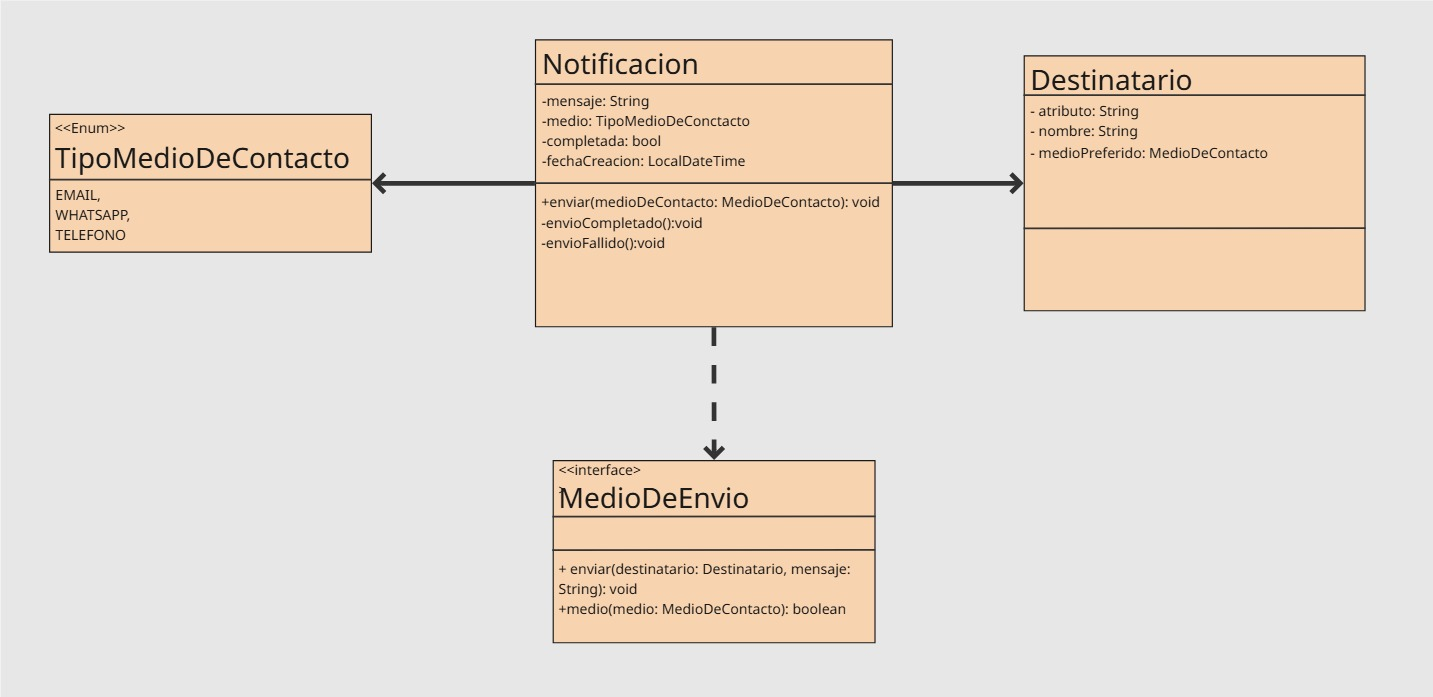
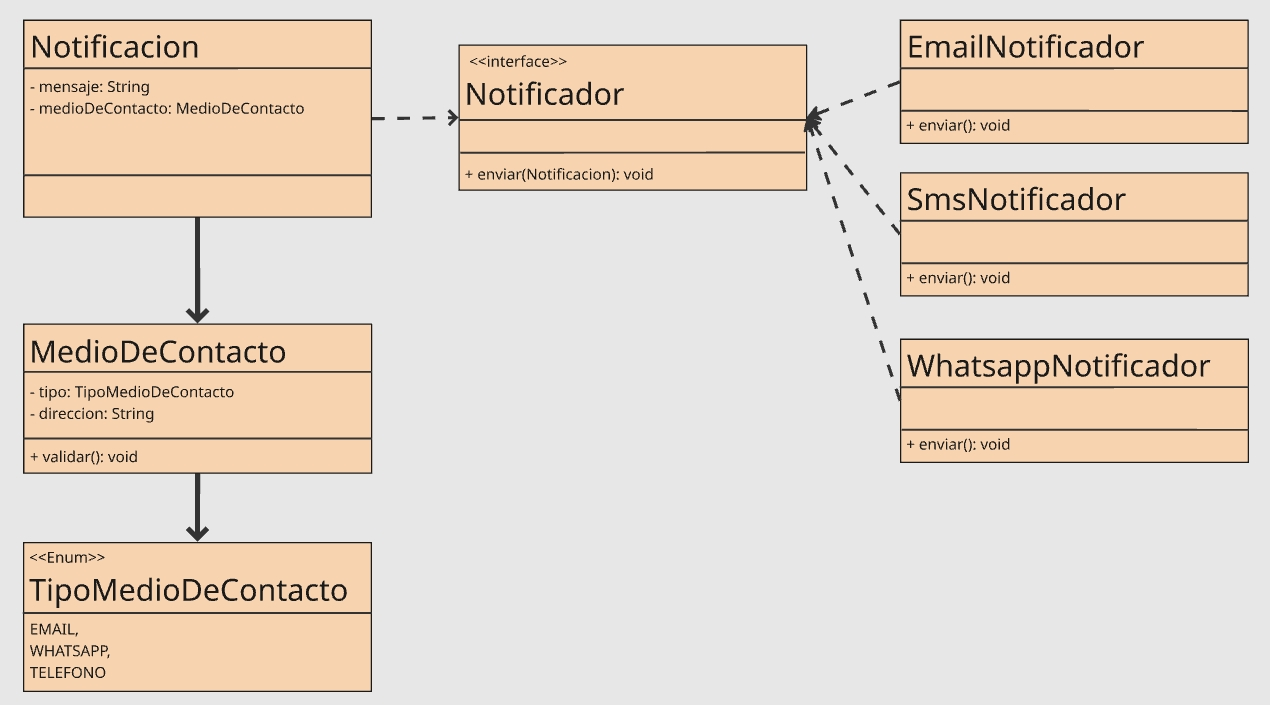
fix: variable borrada en notificaciones + update de diagrama de clases de notificaciones

diff --git a/notificaciones-service/src/test/java/ar/edu/utn/frba/ddsi/notificaciones/NotificacionesTest.java b/notificaciones-service/src/test/java/ar/edu/utn/frba/ddsi/notificaciones/NotificacionesTest.java
@@ -16,7 +16,6 @@ public class NotificacionesTest {
 
         MedioDeContacto medio = new MedioDeContacto(TipoMedioContacto.EMAIL, "test@email.com");
         request.setMedioDeContacto(medio);
-        request.setDestinatario("test@email.com");
         request.setMensaje("HOLA EMAIL!");
 
         assertDoesNotThrow(() -> service.enviar(request));
@@ -28,7 +27,6 @@ public class NotificacionesTest {
 
         MedioDeContacto medio = new MedioDeContacto(TipoMedioContacto.EMAIL, "asdasd123123");
         request.setMedioDeContacto(medio);
-        request.setDestinatario("test@email.com");
         request.setMensaje("HOLA EMAIL!");
 
         assertThrows(RuntimeException.class, () -> {
@@ -42,7 +40,6 @@ public class NotificacionesTest {
 
         MedioDeContacto medio = new MedioDeContacto(TipoMedioContacto.SMS, "asdasd123");
         request.setMedioDeContacto(medio);
-        request.setDestinatario("asdasd123");
         request.setMensaje("HOLA TELÉFONO!");
 
         assertThrows(RuntimeException.class, () -> {

diff --git a/notificaciones-service/src/main/java/ar/edu/utn/frba/ddsi/notificaciones/services/NotificacionService.java b/notificaciones-service/src/main/java/ar/edu/utn/frba/ddsi/notificaciones/services/NotificacionService.java
@@ -14,8 +14,10 @@ public class NotificacionService {
     public void enviar(NotificacionRequest request){
         Notificador notificador;
         MedioDeContacto medioDeContacto = request.getMedioDeContacto();
+
         String destino = medioDeContacto.getDireccion();
         TipoMedioContacto tipo = medioDeContacto.getTipoMedioContacto();
+        String mensaje = request.getMensaje();
 
         switch (tipo) {
             case EMAIL:
@@ -32,7 +34,7 @@ public class NotificacionService {
         }
 
         validarDestino(tipo, destino);
-        notificador.enviar(request.getMedioDeContacto().getDireccion(), request.getMensaje());
+        notificador.enviar(destino, mensaje);
     }
 
     private void validarDestino(TipoMedioContacto tipo, String destino) {

diff --git a/notificaciones-service/src/main/java/ar/edu/utn/frba/ddsi/notificaciones/dto/NotificacionRequest.java b/notificaciones-service/src/main/java/ar/edu/utn/frba/ddsi/notificaciones/dto/NotificacionRequest.java
@@ -7,7 +7,6 @@ import lombok.Setter;
 @Getter
 @Setter
 public class NotificacionRequest {
-    private String destinatario;
     private MedioDeContacto medioDeContacto;
     private String mensaje;
 }
